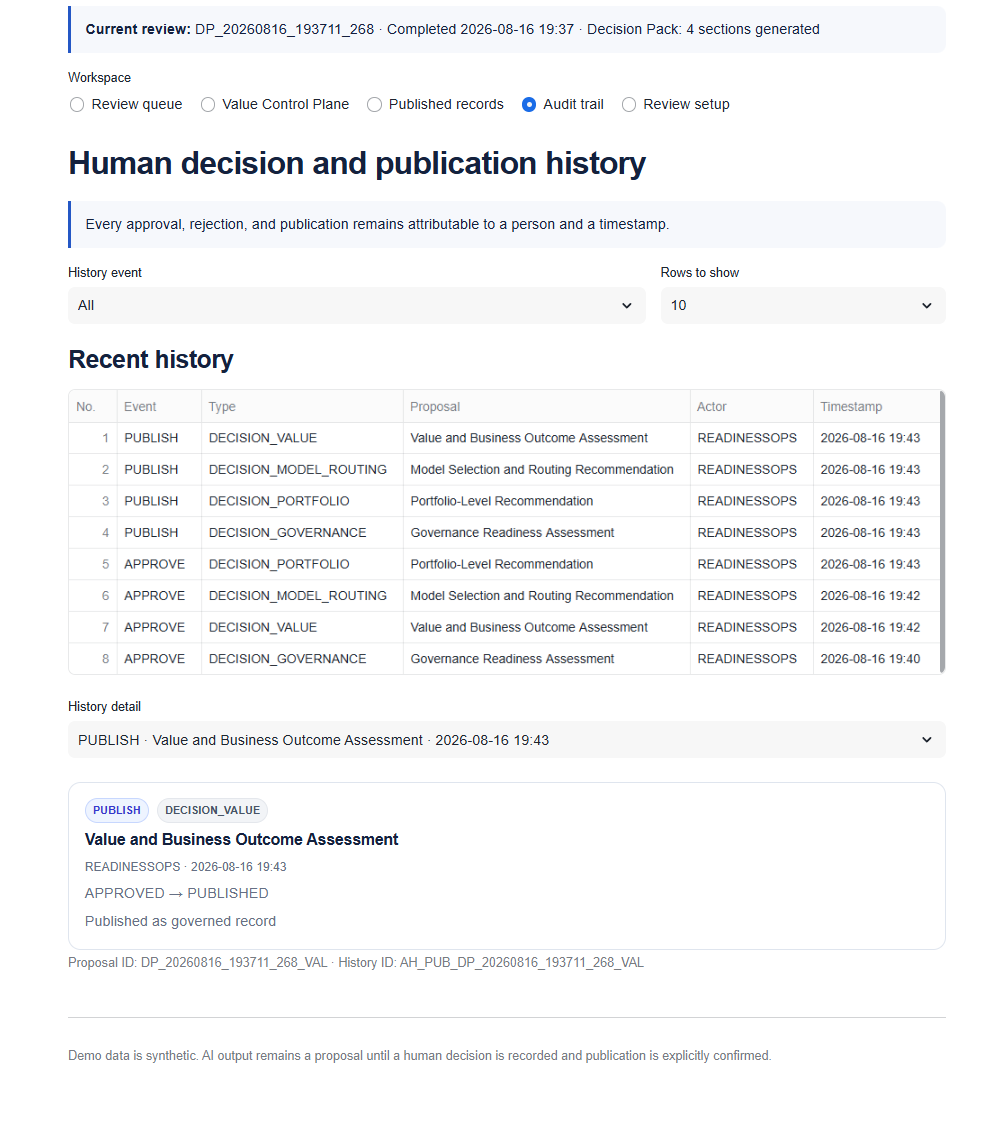
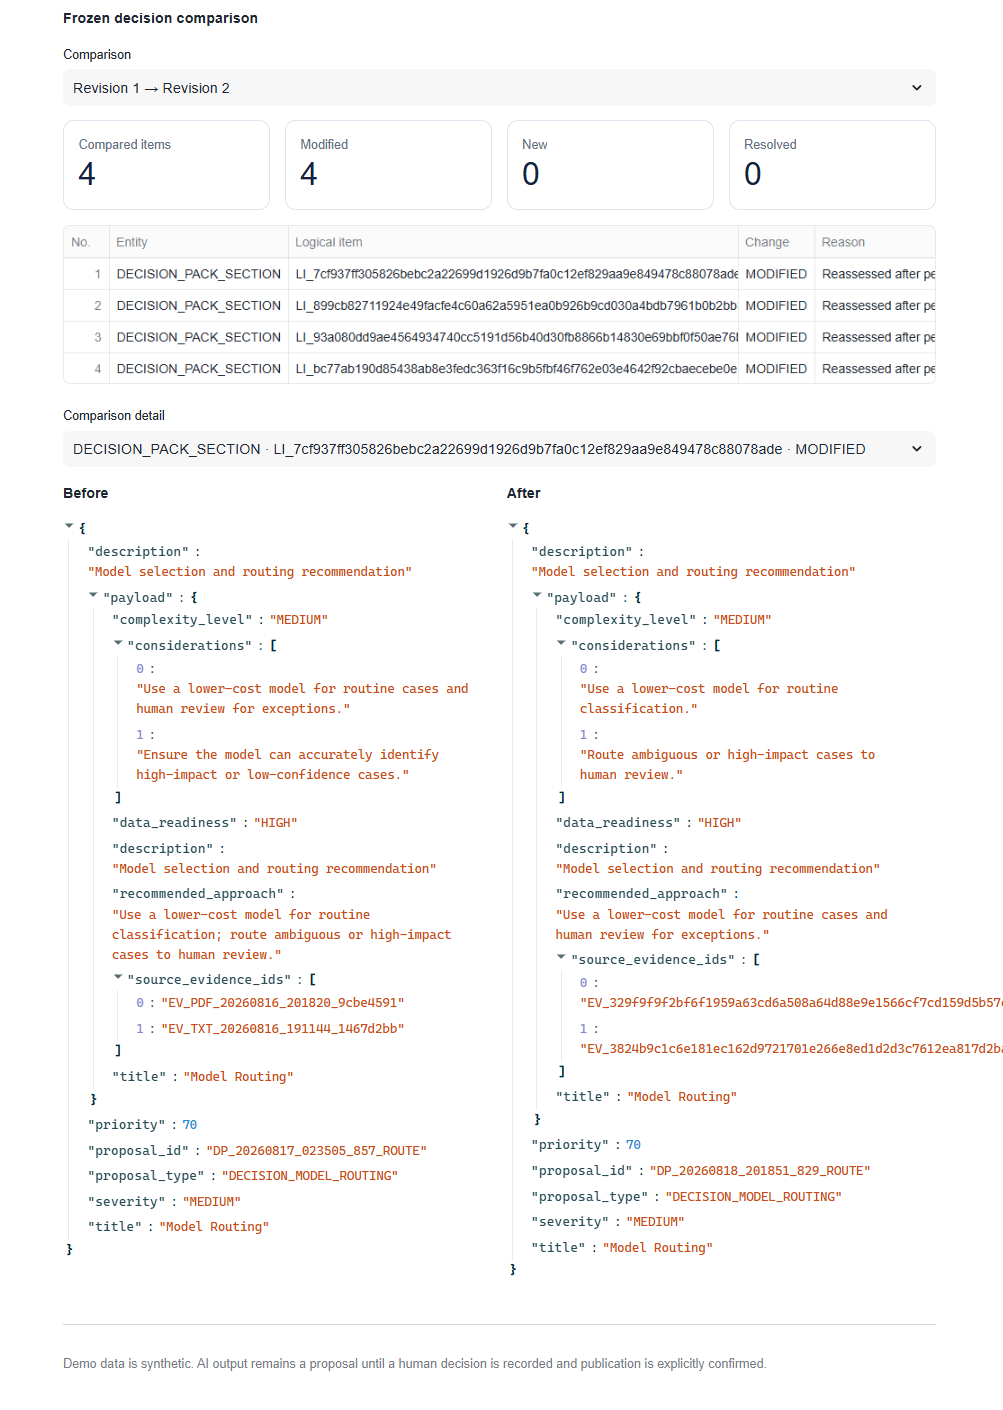
docs: refresh evaluation screenshots for revision workflow (#14)

diff --git a/README.md b/README.md
@@ -21,13 +21,14 @@ ReadinessOps demonstrates that operating lifecycle inside Snowflake while preser
 
 ## Finalist Value Control Plane
 
-The finalist build adds five connected workspaces:
+The finalist build adds six connected workspaces:
 
 1. **Initiative** — create or link an AI Initiative to an Assessment Run
 2. **Evidence** — upload TXT or PDF evidence, retain the original file in a Snowflake stage, and store validated text and metadata
-3. **Decision Pack** — generate exactly four evidence-grounded AI drafts: Governance, Value, Model Routing, and Portfolio
-4. **Published** — inspect only human-approved, explicitly published Governed Decision Records
-5. **Portfolio** — compare initiatives by stage, governance status, value assessment, recommendation, and priority
+3. **Revisions** — preserve published assessment state, add changed Evidence through a Draft Revision, and identify affected decision sections before reassessment
+4. **Decision Pack** — generate exactly four evidence-grounded AI drafts: Governance, Value, Model Routing, and Portfolio
+5. **Published** — inspect only human-approved, explicitly published Governed Decision Records
+6. **Portfolio** — compare initiatives by stage, governance status, value assessment, recommendation, and priority
 
 The Decision Pack workspace also exposes a governed five-step execution trace.
 Human decisions and publication events remain visible in the existing **Audit trail** workspace.
@@ -49,23 +50,29 @@ The model cannot approve its own output and cannot publish directly from generat
 
 ## Product Walkthrough
 
-### 1. Retained TXT/PDF Evidence
+### 1. Governed Revision State
 
-The Value Control Plane retains original TXT/PDF files, parses PDF content with Cortex document intelligence, and records validation metadata.
+The application distinguishes the Draft Revision under review from the immutable published Current State. Evaluators enter directly into the active Draft Revision and its impact-analysis workspace.
 
-![Retained TXT and PDF evidence](assets/screenshots/app_ss_01.png)
+![Draft Revision and published Current State](assets/screenshots/app_ss_01.png)
 
-### 2. Governed Decision Pack Execution
+### 2. Evidence Change Impact Analysis
 
-The generated Governance, Value, Model Routing, and Portfolio sections remain AI drafts until a person reviews each section. Five persisted Run Steps make input validation, context assembly, Cortex generation, output validation, and draft persistence inspectable without adding model calls.
+Only changed Evidence is evaluated against the four published base decisions. The advisory result identifies affected sections, impact level, confidence, and whether reassessment is recommended; it cannot approve or publish anything.
 
-![Governed five-step Decision Pack execution](assets/screenshots/app_ss_02.png)
+![Evidence change impact analysis](assets/screenshots/app_ss_02.png)
 
-### 3. Human Decision and Publication Audit
+### 3. Frozen Before/After Decision Comparison
 
-Approval, rejection, and publication are separate state transitions with actor, timestamp, proposal, and comment traceability.
+Published revisions remain immutable. A frozen comparison makes modified decision content and its cited Evidence inspectable across revisions.
 
-![Human decision and publication audit history](assets/screenshots/app_ss_03.png)
+![Frozen decision comparison across revisions](assets/screenshots/app_ss_03.png)
+
+### 4. Human Decision and Publication Audit
+
+Approval and publication remain separate state transitions. Each event retains the proposal, actor, timestamp, and history record.
+
+![Human approval and publication audit history](assets/screenshots/app_ss_04.png)
 
 ## Architecture
 

diff --git a/docs/hackathon-submission.md b/docs/hackathon-submission.md
@@ -42,17 +42,29 @@ The existing Gap, Risk, and Action governance workflow remains available and unc
 
 ## Application Screenshots
 
-### Retained TXT/PDF Evidence
+### Governed Revision State
 
-![Retained TXT and PDF evidence](../assets/screenshots/app_ss_01.png)
+The Draft Revision under review is clearly separated from the immutable published Current State.
 
-### Governed Decision Pack Execution
+![Draft Revision and published Current State](../assets/screenshots/app_ss_01.png)
 
-![Governed five-step Decision Pack execution](../assets/screenshots/app_ss_02.png)
+### Evidence Change Impact Analysis
+
+Changed Evidence is evaluated against the four published base decisions, producing an advisory and human-confirmed reassessment scope.
+
+![Evidence change impact analysis](../assets/screenshots/app_ss_02.png)
+
+### Frozen Before/After Decision Comparison
+
+Modified decision content and cited Evidence remain inspectable across published revisions.
+
+![Frozen decision comparison across revisions](../assets/screenshots/app_ss_03.png)
 
 ### Human Decision and Publication Audit
 
-![Human decision and publication audit history](../assets/screenshots/app_ss_03.png)
+Approval and publication remain separate, attributable events.
+
+![Human approval and publication audit history](../assets/screenshots/app_ss_04.png)
 
 ## Finalist Feedback Coverage
 
